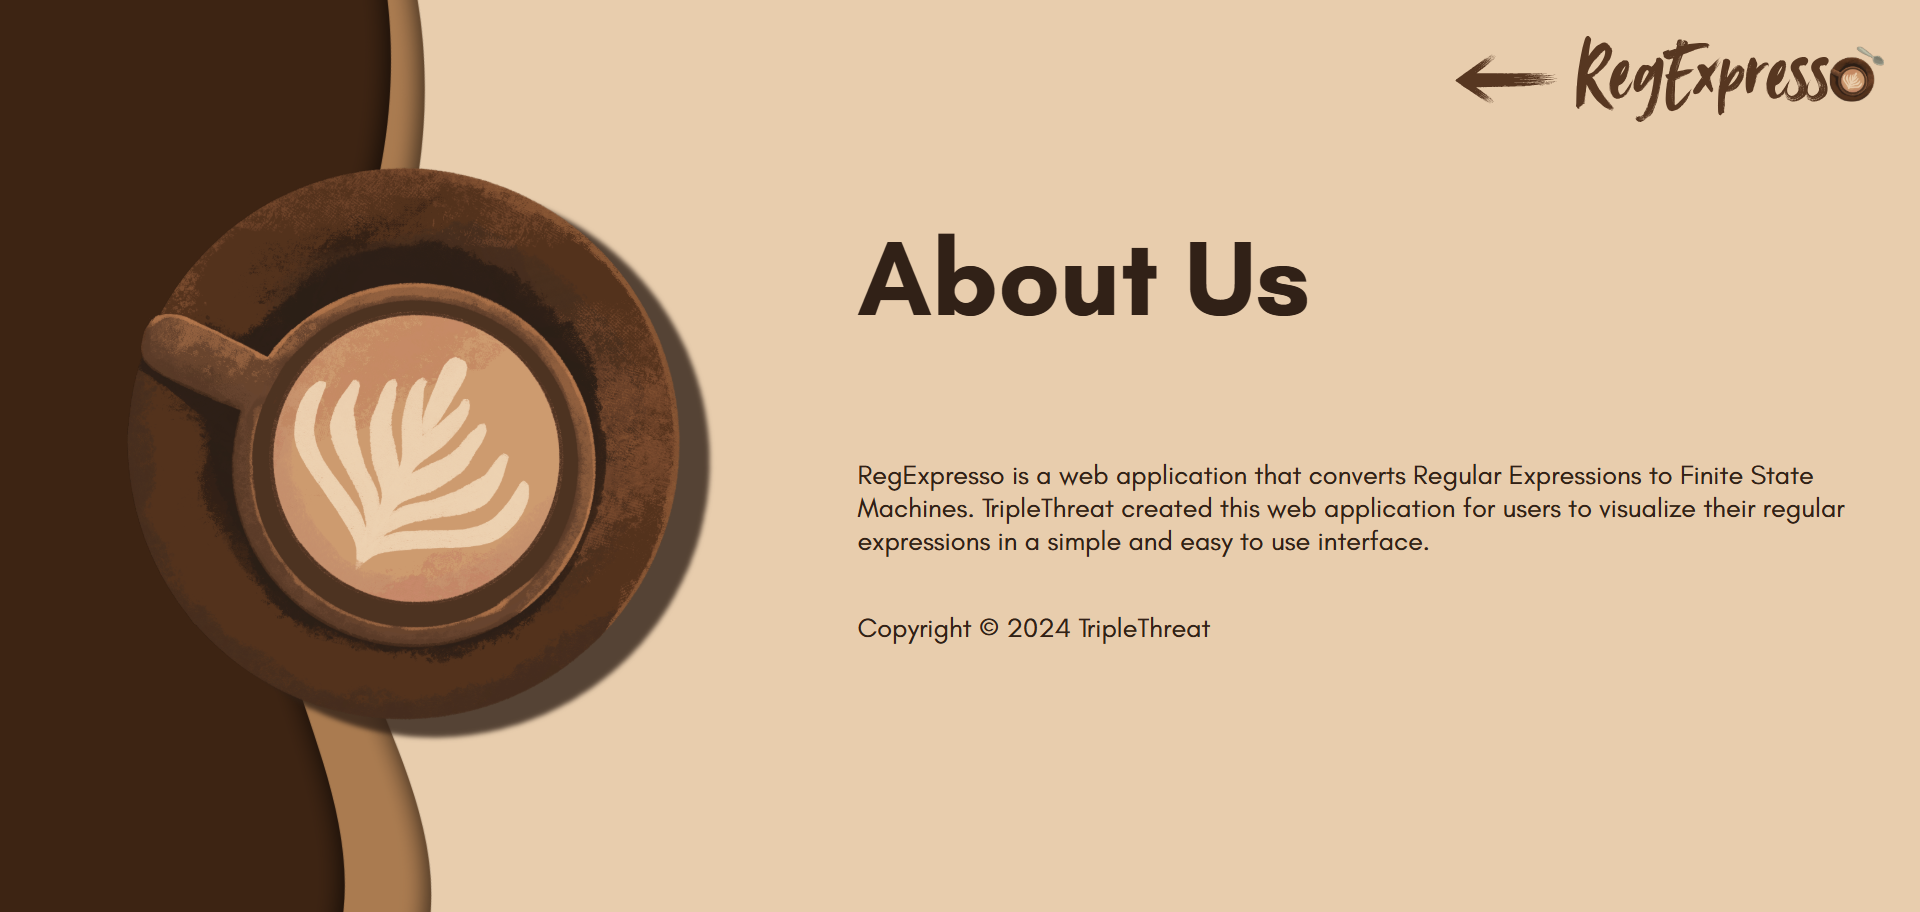
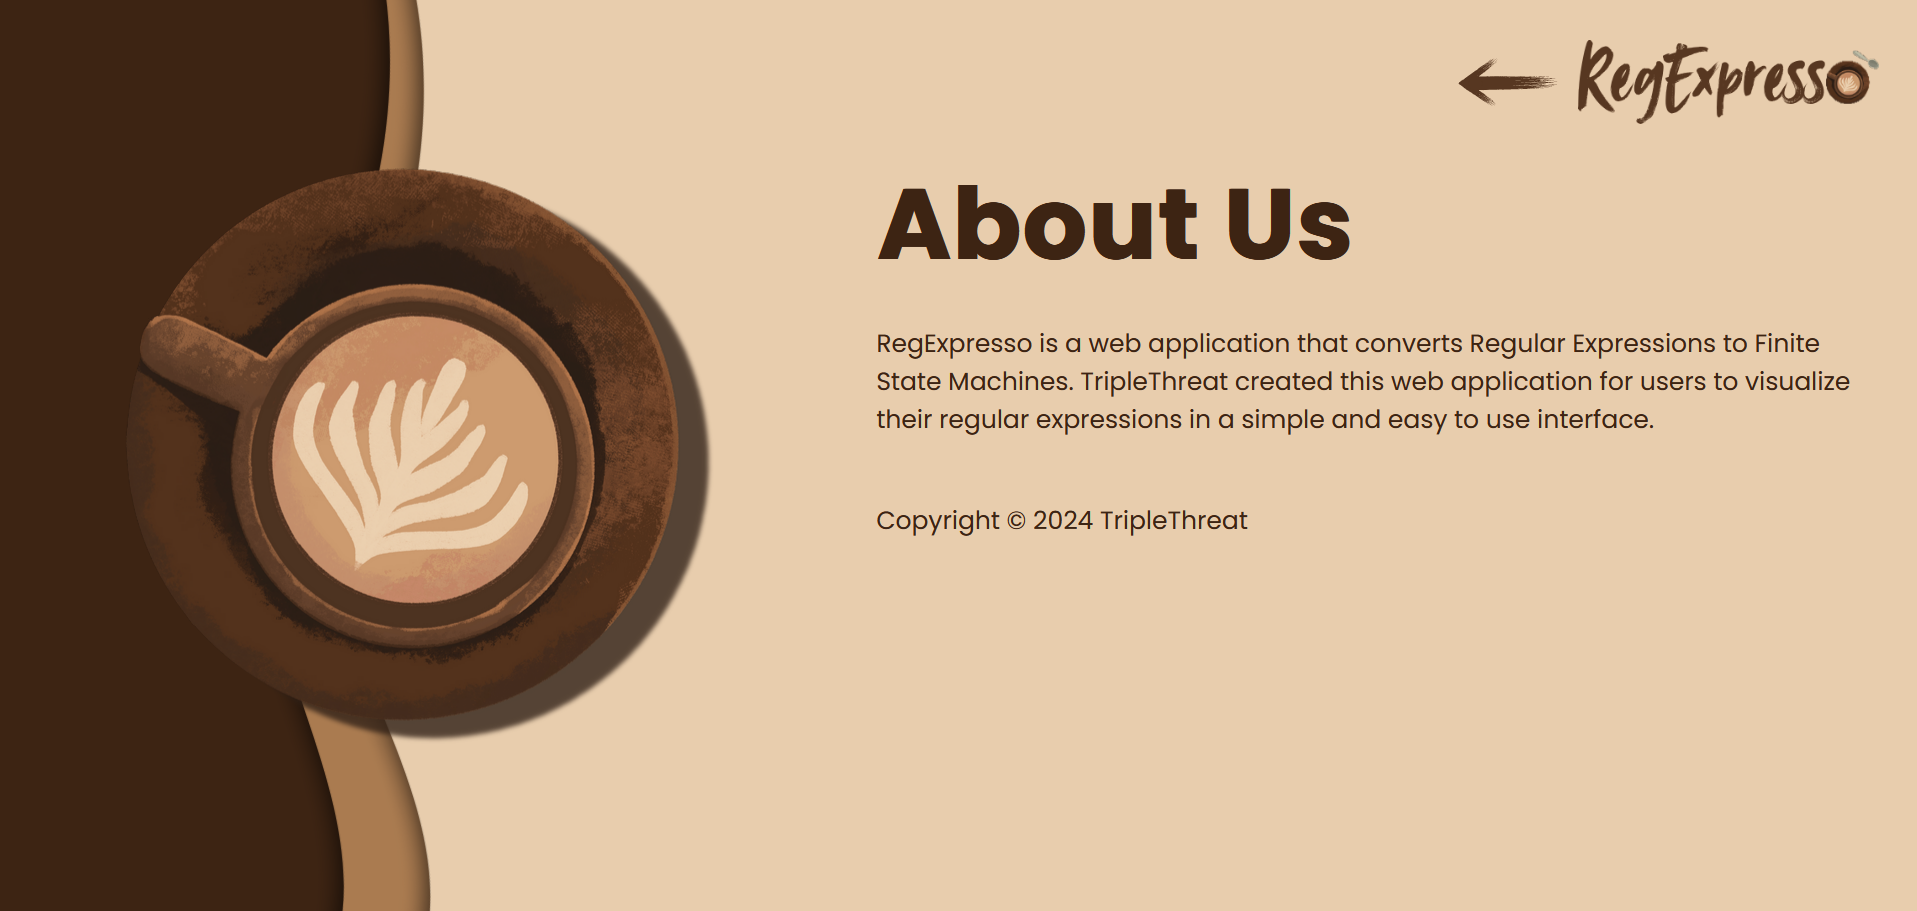
changed public images

diff --git a/frontend/src/pages/About.jsx b/frontend/src/pages/About.jsx
@@ -8,13 +8,13 @@ const About = () => {
             <section className="about__body--left">
             </section>
             <section className="about__body--right">
-                <a href="/home" className="home__button"><img src={RegExpLogo} alt="" className='abt__logo' /> <img src={BackButton} alt="home_button" className='home__btn'/></a>
+                <a href="/home" className="home__button"><img src={RegExpLogo} alt="" className='abt__logo' /> <img src={BackButton} alt="home_button" className='home__btn' /></a>
                 <h1>About Us</h1>
                 <p>RegExpresso is a web application that converts Regular Expressions to Finite State Machines.
                     TripleThreat created this web application for users to visualize their regular expressions in a simple
                     and easy to use interface.
                 </p>
-                <p className="footer_arr">Copyright © 2024 TripleThreat</p>
+                <p className="footer_arr"><br />Copyright © 2024 TripleThreat</p>
             </section>
         </main>
     )

diff --git a/frontend/src/pages/styles/About.css b/frontend/src/pages/styles/About.css
@@ -4,10 +4,10 @@
 	background-repeat: no-repeat;
 	background-size: cover;
 	background-position-y: center;
-	width: 100vw;
 	height: 100vh;
 	display: flex;
-	flex-direction: row;
+	justify-content: center;
+	align-items: center;
 	color: var(--clr-dark-brown);
 	overflow: hidden;
 }
@@ -19,6 +19,7 @@
 
 .about__body--right {
 	display: flex;
+	gap: 20px;
 	flex-direction: column;
 	width: 100%;
 	height: 100%;
@@ -27,13 +28,13 @@
 }
 
 .about__body--right h1 {
-	font-size: 6rem;
+	font-size: 5rem;
 	font-family: "Poppins Bold";
 	transition: font-size 0.3s ease-in-out;
 }
 
 .about__body--right p {
-	font-size: 1.5rem;
+	font-size: 1.25rem;
 }
 
 .about__body--right .home__button {
@@ -65,7 +66,7 @@
 	}
 
 	.about__body--right p {
-		font-size: 1.6rem;
+		font-size: 1.2rem;
 	}
 }
 
@@ -75,7 +76,7 @@
 	}
 
 	.about__body--right h1 {
-		font-size: 5rem;
+		font-size: 4rem;
 		margin: 0;
 	}
 
